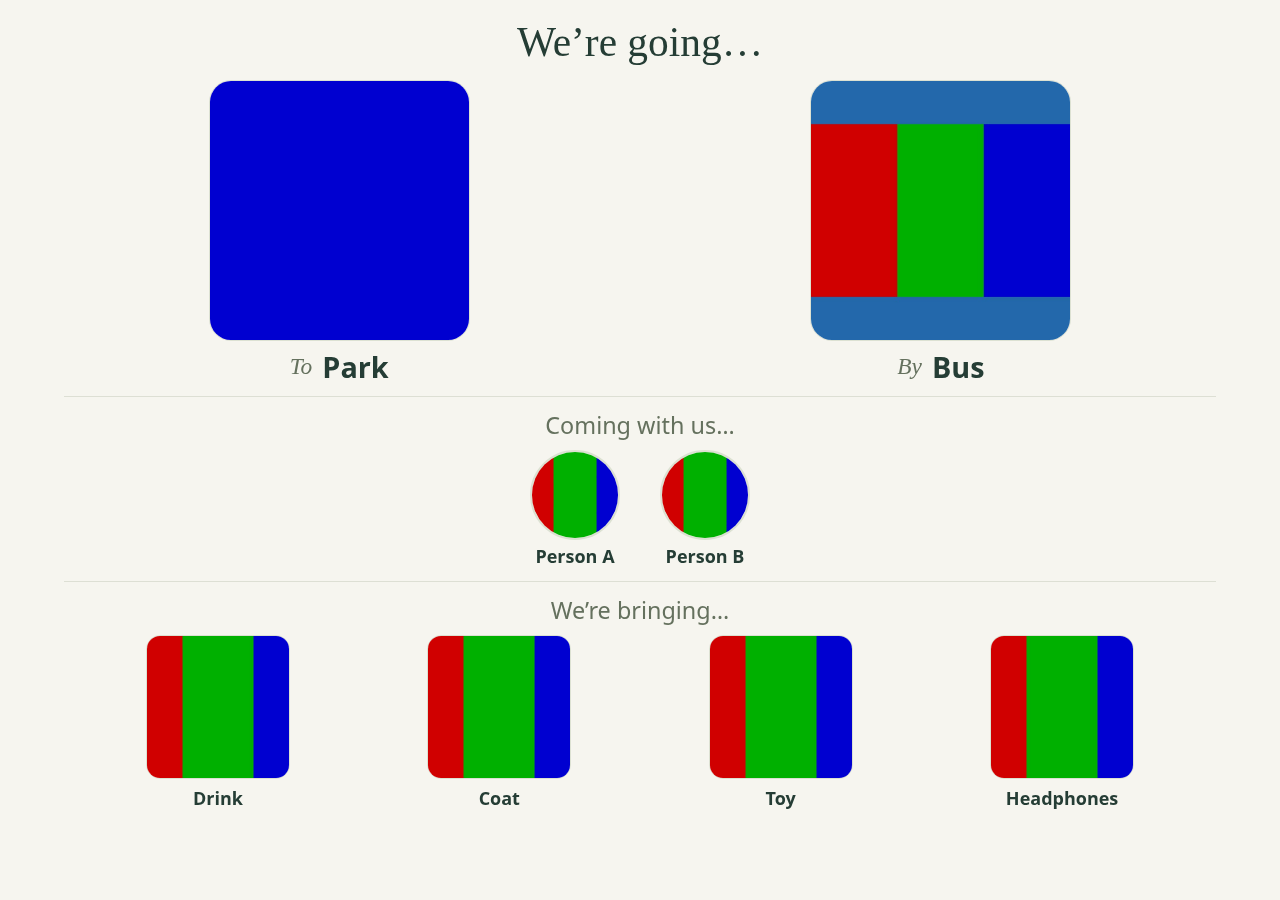
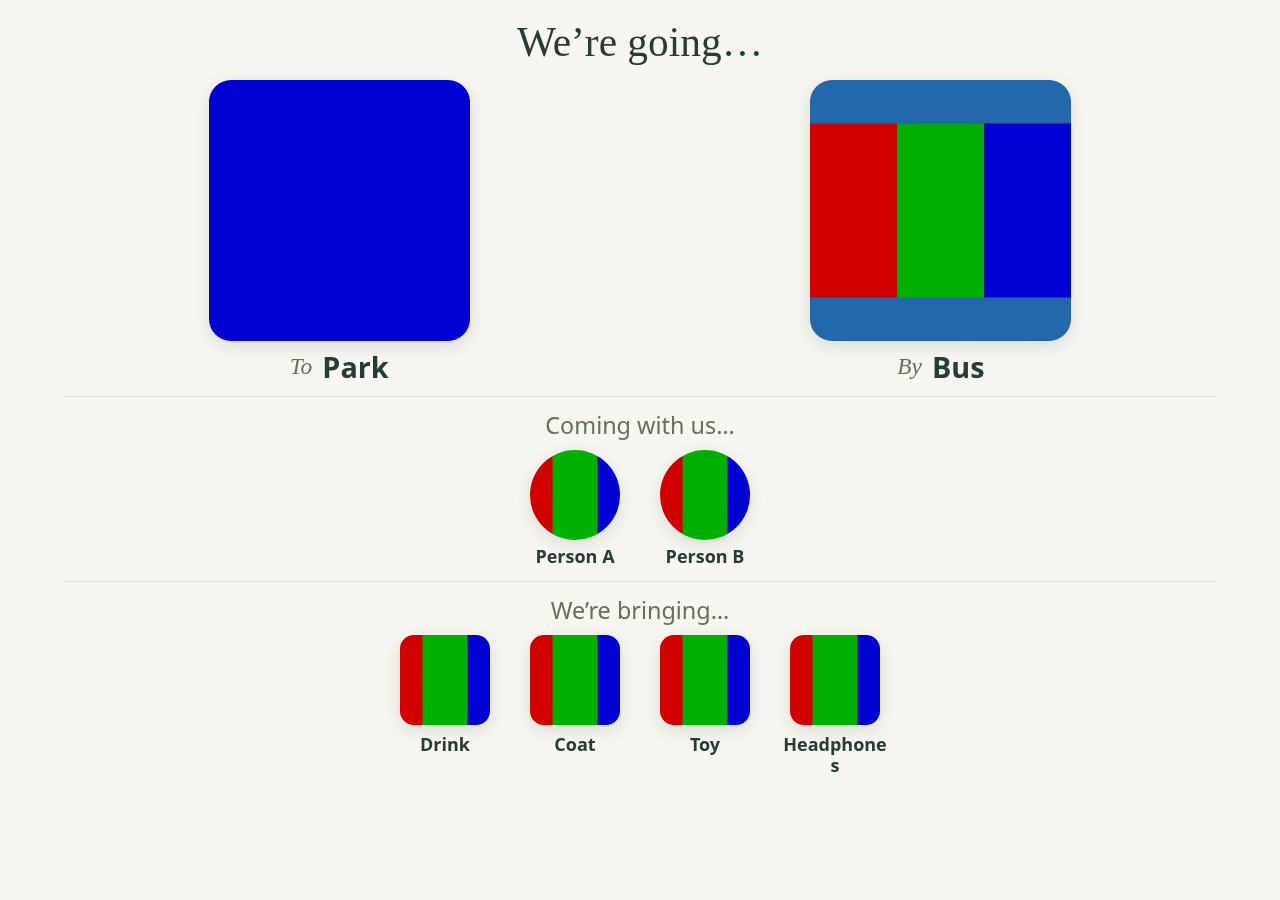
Simplify parent navigation and journey photo styling in v1.0.6

diff --git a/transition_cues/transition-cues-web/app.js b/transition_cues/transition-cues-web/app.js
@@ -17,9 +17,12 @@ async function api(path, data) {
 async function refresh() { state = await api('state'); state.items ??= []; state.people ??= []; }
 function frame(content, route) {
   document.body.classList.remove('lock-active');
-  app.innerHTML = `<div class="shell"><header class="header"><a class="brand" href="#choose"><img src="/icon.svg" alt=""><span>Transition Cues<small>ONE JOURNEY AT A TIME</small></span></a><nav class="nav" aria-label="Main navigation">${[['choose','Plan a journey'],['manage','Picture library'],['settings','Settings']].map(([r,t])=>`<a href="#${r}" ${route===r?'aria-current="page"':''}>${t}</a>`).join('')}${state.returnUrl ? `<a class="return-link" href="${esc(state.returnUrl)}">← Back to main screen</a>` : ''}</nav></header>${content}</div>`;
+  const libraryIcon='<svg viewBox="0 0 24 24" fill="none" stroke="currentColor" stroke-width="1.8" aria-hidden="true"><rect x="3" y="3" width="18" height="18" rx="3"/><circle cx="8" cy="8" r="1.5"/><path d="m3 17 5-5 4 4 4-6 5 7"/></svg>';
+  const settingsIcon='<svg viewBox="0 0 24 24" fill="none" stroke="currentColor" stroke-width="1.8" stroke-linejoin="round" aria-hidden="true"><polygon points="20.00,12.00 21.81,13.95 21.24,15.83 18.65,16.44 17.66,17.66 17.56,20.31 15.83,21.24 13.56,19.85 12.00,20.00 10.05,21.81 8.17,21.24 7.56,18.65 6.34,17.66 3.69,17.56 2.76,15.83 4.15,13.56 4.00,12.00 2.19,10.05 2.76,8.17 5.35,7.56 6.34,6.34 6.44,3.69 8.17,2.76 10.44,4.15 12.00,4.00 13.95,2.19 15.83,2.76 16.44,5.35 17.66,6.34 20.31,6.44 21.24,8.17 19.85,10.44"/><circle cx="12" cy="12" r="3"/></svg>';
+  app.innerHTML = `<div class="shell"><header class="header ${route==='choose'?'':'subpage-header'}">${route==='choose'?'<a class="brand" href="#choose"><img src="/icon.svg" alt=""><span>Transition Cues</span></a>':''}<nav class="nav" aria-label="Main navigation">${[['manage','Picture library',libraryIcon],['settings','Settings',settingsIcon]].map(([r,t,icon])=>`<a class="icon-link" href="#${r}" aria-label="${t}" title="${t}" ${route===r?'aria-current="page"':''}>${icon}</a>`).join('')}${route!=='choose'?'<a class="back-plan secondary" href="#choose"><span aria-hidden="true">←</span> Back to plan</a>':''}</nav>${state.returnUrl ? `<a class="return-link" href="${esc(state.returnUrl)}">← Back to main screen</a>` : ''}</header>${content}</div>`;
 }
-function intro(kicker, title, description, extra='') { return `<div class="intro"><div><span class="eyebrow">${kicker}</span><h1>${title}</h1><p>${description}</p></div>${extra}</div>`; }
+function intro(title, description, extra='') { return `<div class="intro"><div><h1>${title}</h1><p>${description}</p></div>${extra}</div>`; }
+
 const MAX_BRING_ITEMS = 4;
 function empty(kind) {
   const content = {
@@ -34,7 +37,7 @@ function renderChoose() {
   for (const k of ['places','transport']) if (selected[k]) selected[k] = state[k].find(x=>x.id===selected[k].id) || null;
   selected.items = selected.items.map(item=>state.items.find(x=>x.id===item.id)).filter(Boolean).slice(0,MAX_BRING_ITEMS);
   selected.people = selected.people.map(person=>state.people.find(x=>x.id===person.id)).filter(Boolean);
-  frame(intro('LET’S GET READY', 'Where are we going?', 'Choose a place, how you’ll get there, and anything to bring along.', '<span class="pill">A moment of calm before you go</span>') +
+  frame(intro('Where are we going?', 'Choose a place, how you’ll get there, and anything to bring along.', '<span class="pill">A moment of calm before you go</span>') +
     ['places','transport','items','people'].map((kind,i)=>{
       const multi = kind==='items' || kind==='people';
       return `<section class="step" aria-labelledby="${kind}Heading"><div class="step-heading"><h2 id="${kind}Heading"><span class="step-number">${i+1}</span>${['Choose a place','Choose how to get there','Items to bring along','People'][i]}</h2><small ${multi?`id="${kind==='items'?'itemCount':'peopleCount'}" role="status"`:''}>${multi ? (kind==='items' ? `${selected.items.length} of ${MAX_BRING_ITEMS} selected · optional` : `${selected.people.length} selected · optional`) : `${state[kind].length} ${kind==='places'?'places':'ways to travel'}`}</small></div>${multi?`<p class="step-help">${kind==='items'?'Choose up to 4 items.':'Choose the people coming along, or leave this empty.'} Tap a selected picture again to remove it.</p>`:''}${state[kind].length ? `<div class="grid">${state[kind].map(x=>{
@@ -179,7 +182,7 @@ $('#pinForm').onsubmit = async e => {
   finally { form.dataset.pinBusy='false';dialogPad.paint(); }
 };
 function renderManage() {
-  frame(intro('YOUR FAMILY’S PICTURE LIBRARY','Little pictures. Familiar faces.','Add your own photos, so every journey starts with something familiar.')+
+  frame(intro('Little pictures. Familiar faces.','Add your own photos, so every journey starts with something familiar.')+
     `<div class="management"><section class="panel"><h2>Add a picture</h2><p>A clear photo and a short, familiar name work best.</p><form id="uploadForm"><div><label for="kind">What is it?</label><select id="kind"><option value="places">A place</option><option value="transport">A way to travel</option><option value="items">An item to bring along</option><option value="people">A person</option></select></div><div><label for="name">Name</label><input id="name" maxlength="60" placeholder="e.g. Park" required></div><div><label for="photo">Photo</label><input id="photo" type="file" accept="image/jpeg,image/png,image/webp" required><p class="help">JPEG, PNG or WebP. Photos fill a square automatically. Use Crop photo to zoom out, adjust framing and colour any gaps. People display as circles.</p><img id="photoPreview" class="preview-image" alt="Selected photo preview" hidden><button id="cropUpload" class="secondary" type="button" hidden>Crop photo</button></div><p id="uploadError" class="error" role="alert"></p><button class="primary" type="submit" id="uploadButton">Add to library <span aria-hidden="true">＋</span></button></form></section><section aria-label="Existing pictures"><div class="tabs" aria-label="Picture categories">${[['places','Places'],['transport','Transport'],['items','Items'],['people','People']].map(([k,t])=>`<button data-tab="${k}" aria-pressed="${category===k}">${t} · ${state[k].length}</button>`).join('')}</div><div id="library"></div></section></div>`, 'manage');
   $('#kind').value=category;
   app.querySelectorAll('[data-tab]').forEach(b=>b.onclick=()=>{category=b.dataset.tab;renderManage();});
@@ -291,7 +294,7 @@ function renderLibrary() {
 $('#deleteCancel').onclick=()=>$('#deleteDialog').close();
 $('#deleteForm').onsubmit=async e=>{e.preventDefault();const b=e.submitter;b.disabled=true;try{await api('delete',pendingDelete);$('#deleteDialog').close();await refresh();renderManage();toast('Picture removed.');}catch(error){toast(error.message);}finally{b.disabled=false;}};
 function renderSettings() {
-  frame(intro('MAKE YOURSELF AT HOME','A few things for the grown-ups.','Keep your parent PIN and your return link up to date.')+`<div class="settings-grid"><section class="panel"><h2>Parent PIN</h2><p>Use the same PIN on the tablet and your phone.</p><form id="changePinForm">${pinField('oldPin','Current PIN')}${pinField('newPin','New PIN · 4 to 8 digits')}${pinField('newPinConfirm','Confirm new PIN')}<div id="settingsPinPad"></div><button class="primary" id="changePinSubmit">Change PIN</button><p class="error" id="changeError" role="alert"></p></form></section><section class="panel"><h2>Back to main screen</h2><p>Add the address of your main tablet screen. A return link will appear on the parent screens.</p><form id="returnForm"><div><label for="returnUrl">Main screen address</label><input id="returnUrl" type="url" placeholder="http://homeassistant.local:8123/…" value="${esc(state.returnUrl)}"></div><button class="primary">Save link</button><p id="returnError" class="error" role="alert"></p></form></section><section class="panel wide"><h2>On the tablet</h2><p>Choose a place, transport and up to four optional items to bring along, plus any people joining you, then tap “Show the plan”. To finish, tap the picture screen five times within four seconds and enter your PIN. Cancelling the PIN prompt keeps the journey locked.</p><p>Use the tablet’s kiosk mode or guided access to prevent leaving the browser. Keep Transition Cues open in its own browser tab rather than embedding it inside another page.</p><p class="help">To manage pictures from your phone, open this app’s address and choose Picture library. Both devices must reach the same server. Your pictures stay on your home server.</p></section></div>`, 'settings');
+  frame(intro('A few things for the grown-ups.','Keep your parent PIN and your return link up to date.')+`<div class="settings-grid"><section class="panel"><h2>Parent PIN</h2><p>Use the same PIN on the tablet and your phone.</p><form id="changePinForm">${pinField('oldPin','Current PIN')}${pinField('newPin','New PIN · 4 to 8 digits')}${pinField('newPinConfirm','Confirm new PIN')}<div id="settingsPinPad"></div><button class="primary" id="changePinSubmit">Change PIN</button><p class="error" id="changeError" role="alert"></p></form></section><section class="panel"><h2>Back to main screen</h2><p>Add the address of your main tablet screen. A return link will appear on the parent screens.</p><form id="returnForm"><div><label for="returnUrl">Main screen address</label><input id="returnUrl" type="url" placeholder="http://homeassistant.local:8123/…" value="${esc(state.returnUrl)}"></div><button class="primary">Save link</button><p id="returnError" class="error" role="alert"></p></form></section><section class="panel wide"><h2>On the tablet</h2><p>Choose a place, transport and up to four optional items to bring along, plus any people joining you, then tap “Show the plan”. To finish, tap the picture screen five times within four seconds and enter your PIN. Cancelling the PIN prompt keeps the journey locked.</p><p>Use the tablet’s kiosk mode or guided access to prevent leaving the browser. Keep Transition Cues open in its own browser tab rather than embedding it inside another page.</p><p class="help">To manage pictures from your phone, open this app’s address and choose Picture library. Both devices must reach the same server. Your pictures stay on your home server.</p></section></div>`, 'settings');
   $('#returnForm').onsubmit=async e=>{e.preventDefault();const b=e.submitter;b.disabled=true;try{await api('settings',{returnUrl:$('#returnUrl').value.trim()});await refresh();renderSettings();toast('Return link saved.');}catch(error){$('#returnError').textContent=error.message;}finally{b.disabled=false;}};
   const changeForm=$('#changePinForm');
   const settingsPad=wirePinPad(changeForm,['oldPin','newPin','newPinConfirm'],$('#settingsPinPad'),$('#changePinSubmit'),()=> 'Change PIN');

diff --git a/transition_cues/transition-cues-web/style.css b/transition_cues/transition-cues-web/style.css
@@ -21,3 +21,13 @@
 #cropBackground{padding:4px;max-width:120px;cursor:pointer}
 @media(max-width:620px){.locked .bring-card img{width:min(100%,10vh)}}
 .picture.person-picture img{width:min(100%,150px);height:auto;aspect-ratio:1}.library-item.person-picture img{width:min(100%,130px);height:auto;aspect-ratio:1}.preview-image.round{width:min(100%,150px);height:auto;aspect-ratio:1}@media(max-width:620px){.picture.person-picture img{width:min(100%,120px)}}
+
+/* Compact parent navigation and a clear route back to the plan. */
+.header{flex-direction:row;flex-wrap:wrap;align-items:center;gap:12px}.header .nav{width:auto;margin-left:auto;justify-content:flex-end;align-items:center;flex-wrap:nowrap;gap:8px}.header .icon-link{display:inline-flex;align-items:center;justify-content:center;width:44px;height:44px;padding:0;border-radius:12px;font-size:27px;line-height:1}.icon-link svg{width:24px;height:24px}.header .back-plan{padding:10px 14px;white-space:nowrap;border-radius:10px}.header>.return-link{flex-basis:100%;text-align:right;font-size:13px;padding-bottom:12px;text-decoration:none}.subpage-header{justify-content:flex-end}
+/* Edge-to-edge journey photos and matching companion icon sizes. */
+.locked{--companion-size:clamp(64px,10vh,100px);--companion-card:clamp(76px,12vh,120px);--photo-shadow:0 5px 16px #253d351f}
+.locked .cue-card img{border:0;object-fit:cover;box-shadow:var(--photo-shadow)}.locked .person-card img{border:0;box-shadow:var(--photo-shadow)}
+.locked .bring-grid{display:flex;flex-wrap:wrap;justify-content:center;gap:12px 22px;max-width:none}.locked .bring-card{width:var(--companion-card)}.locked .bring-card img{width:var(--companion-size);height:var(--companion-size);border:0;border-radius:14px;object-fit:cover;padding:0;box-shadow:var(--photo-shadow)}
+@media(max-width:620px){.header .brand{font-size:17px;gap:8px}.header .brand img{width:36px;height:36px}.locked{--companion-size:64px;--companion-card:80px}.locked .bring-grid{gap:10px}}
+
+.locked .bring-card figcaption{font-size:clamp(14px,2vh,20px);line-height:1.2}

diff --git a/tests/container_smoke.py b/tests/container_smoke.py
@@ -83,5 +83,5 @@ print('PASS: replacement container preserves library, images and PIN in /data')
 
 if __name__ == '__main__':
     parser = argparse.ArgumentParser()
-    parser.add_argument('--image', default='transition-cues-ha-check:1.0.5')
+    parser.add_argument('--image', default='transition-cues-ha-check:1.0.6')
     run(parser.parse_args().image)

diff --git a/transition_cues/DOCS.md b/transition_cues/DOCS.md
@@ -26,6 +26,8 @@ If you are starting with an empty library, stop the old add-on, install and star
 
 ## First launch and pictures
 
+Use the picture icon at the top right for **Picture library**, and the gear icon for **Settings**. Both have accessible labels and tooltips. On those pages, use **← Back to plan** at the top right to return to journey selection.
+
 Set a shared parent PIN of 4–8 digits on first launch using the on-screen number pad. Tap **Next**, enter the same digits to confirm, then save. There is no default PIN. Use this PIN on your phone when opening the library or settings.
 
 The PIN controls use buttons and masked dots instead of password fields, so Safari has no editable PIN field to offer a generated password for or open its keyboard against. Use **Clear** to start over or **⌫** to delete the last digit. A physical keyboard also works: type numbers, use Backspace to delete a digit, Delete to clear, and Enter on the selected PIN field to continue. PINs can start with zero and may contain up to eight digits.

diff --git a/transition_cues/CHANGELOG.md b/transition_cues/CHANGELOG.md
@@ -1,5 +1,11 @@
 # Changelog
 
+## 1.0.6
+
+- Simplify the logo and page headings; use accessible icon links for Library and Settings at the top right, with Back to plan on parent pages.
+- Show journey photos edge to edge with soft shadows and no borders.
+- Size rounded-square bring-along photos to match the circular People portraits.
+
 ## 1.0.5
 
 - Use square crops and square photo frames throughout; keep People circular.
